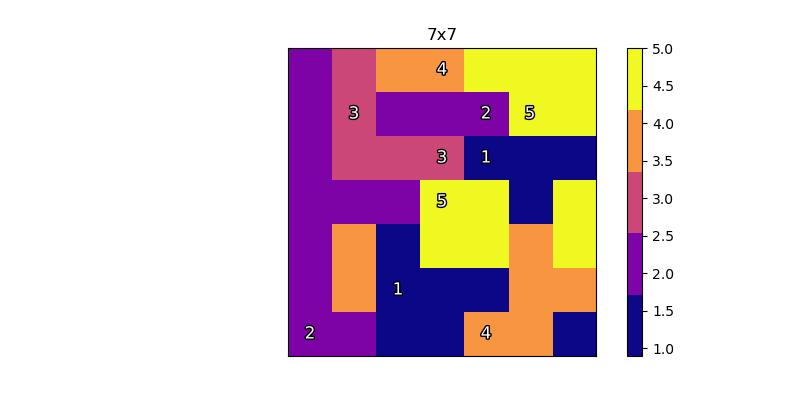
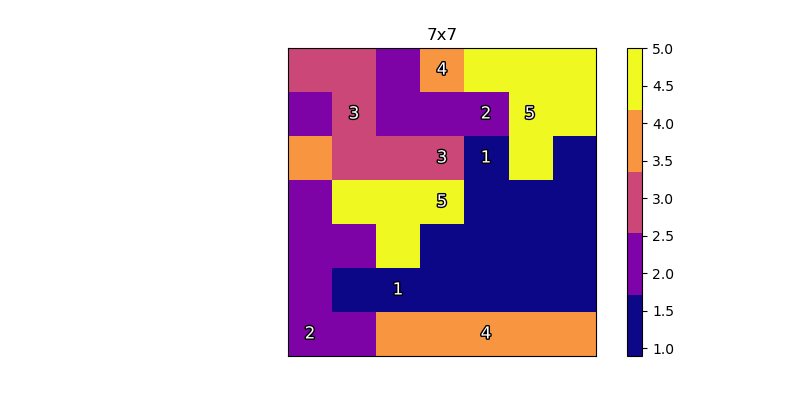
I can make a bad Path good or a weekend

diff --git a/Source/Genetic.py b/Source/Genetic.py
@@ -188,10 +188,63 @@ class Genetic():
 
         return strayCount     
 
-    def RemoveUselessPath(self, array):
-        originalValid = self.__CountValidPaths()[0]
-        if originalValid == 0:
-            return
+    def RemoveUselessPath(self, individual, originalArray):
+
+
+
+
+
+        startAndFinish = []
+        connectedNumbers = 0
+        PathList = []
+
+        for num in range (1, self.NumberofNumbers + 1):
+            currentCords = []
+            for i in range(self.gridSize):
+                for j in range(self.gridSize):
+                    if originalArray[i][j] == num:
+                        currentCords.append((i,j))
+            startAndFinish.append(currentCords)
+
+        print(startAndFinish)
+
+        for i in range(1, self.NumberofNumbers + 1):
+            isValid = True
+            targetCords = startAndFinish[i-1]
+            cordsFound = 0
+            #cursed lol, returns a list of all coordinates 9as tuples) of the given numer i
+            curNumCoordList = list(zip(np.where(np.array(individual) == i)[0], np.where(np.array(individual) == i)[1]))
+            print("----------------------")
+            print(i, ":")
+            print(curNumCoordList)
+            for j in range(0, len(curNumCoordList) - 1):
+                print("Current Cords: ",curNumCoordList[j])
+                if curNumCoordList[j] in targetCords: cordsFound +=1
+                startX, startY = targetCords[1]
+                currentX, currentY = curNumCoordList[j]
+                nextX, nextY = curNumCoordList[j + 1]
+                #indexes are in order, if we jump more than 1 square then there must be a disconnect or doubleback
+                if (currentX + 1 == nextX and currentY == nextY) or \
+                   (currentY + 1 == nextY and currentX == nextX) or \
+                   (currentX - 1 == nextX and currentY == nextY) or \
+                   (currentY - 1 == nextY and currentX == nextX):
+                    continue
+                elif (startX + 1 == nextX and startY == nextY) or \
+                   (startY + 1 == nextY and startX == nextX) or \
+                   (startX - 1 == nextX and startY == nextY) or \
+                   (startY - 1 == nextY and startX == nextX) or \
+                    (startY - 1 == nextY and startX == nextX):
+                    continue
+                else:#number must not be connected
+                    isValid = False
+                    break
+            if cordsFound == 2: isValid = True
+            if (isValid):
+                connectedNumbers+=1
+                PathList.append(i)
+
+            print("Number of Connections: ",connectedNumbers)
+
 
             
         
@@ -416,11 +469,11 @@ class Genetic():
     def RunAlgorithm(self):
         currentGeneration = self.CreateInitalGeneration()
 
-        print("Final Gen:")
-        for i in range(0, self.popSize):
-            self.__PrintGrid(currentGeneration[Population][i])
-            print("Fitness:", currentGeneration[Fitnesses][i])
-            print("**************************************")
+        # print("Final Gen:")
+        # for i in range(0, self.popSize):
+            # self.__PrintGrid(currentGeneration[Population][i])
+            # print("Fitness:", currentGeneration[Fitnesses][i])
+            # print("**************************************")
 
         #be careful here, this will not return a deep copy at the moment
         for i in range(0, self.cutoff):

diff --git a/Source/Main.py b/Source/Main.py
@@ -6,7 +6,7 @@ import Genetic as gen
 import os
 import GUI as gui
 
-coolGuy = gen.Genetic(mutRate=.014, mutType="Random", popSize=150, crossType="Crossy", cutoff=500, gridSize=7)
+coolGuy = gen.Genetic(mutRate=.014, mutType="Random", popSize=150, crossType="Crossy", cutoff=100, gridSize=7)
 
 
 #Get directory that the test files are in
@@ -16,6 +16,8 @@ coolGuy.PopulateGrid(TestPath, "7x7.txt")
 
 
 finalGen = coolGuy.RunAlgorithm()
-print("Number of Pokie dots: ",coolGuy.CountStrayPath(finalGen[0][0]))
 
+print(coolGuy.grid)
+print("Path Selected: ")
+coolGuy.RemoveUselessPath(finalGen[0][0],coolGuy.grid)
 gui.DisplayGame(finalGen[0][0], coolGuy.grid, coolGuy.GetNumberOfNumbers())
